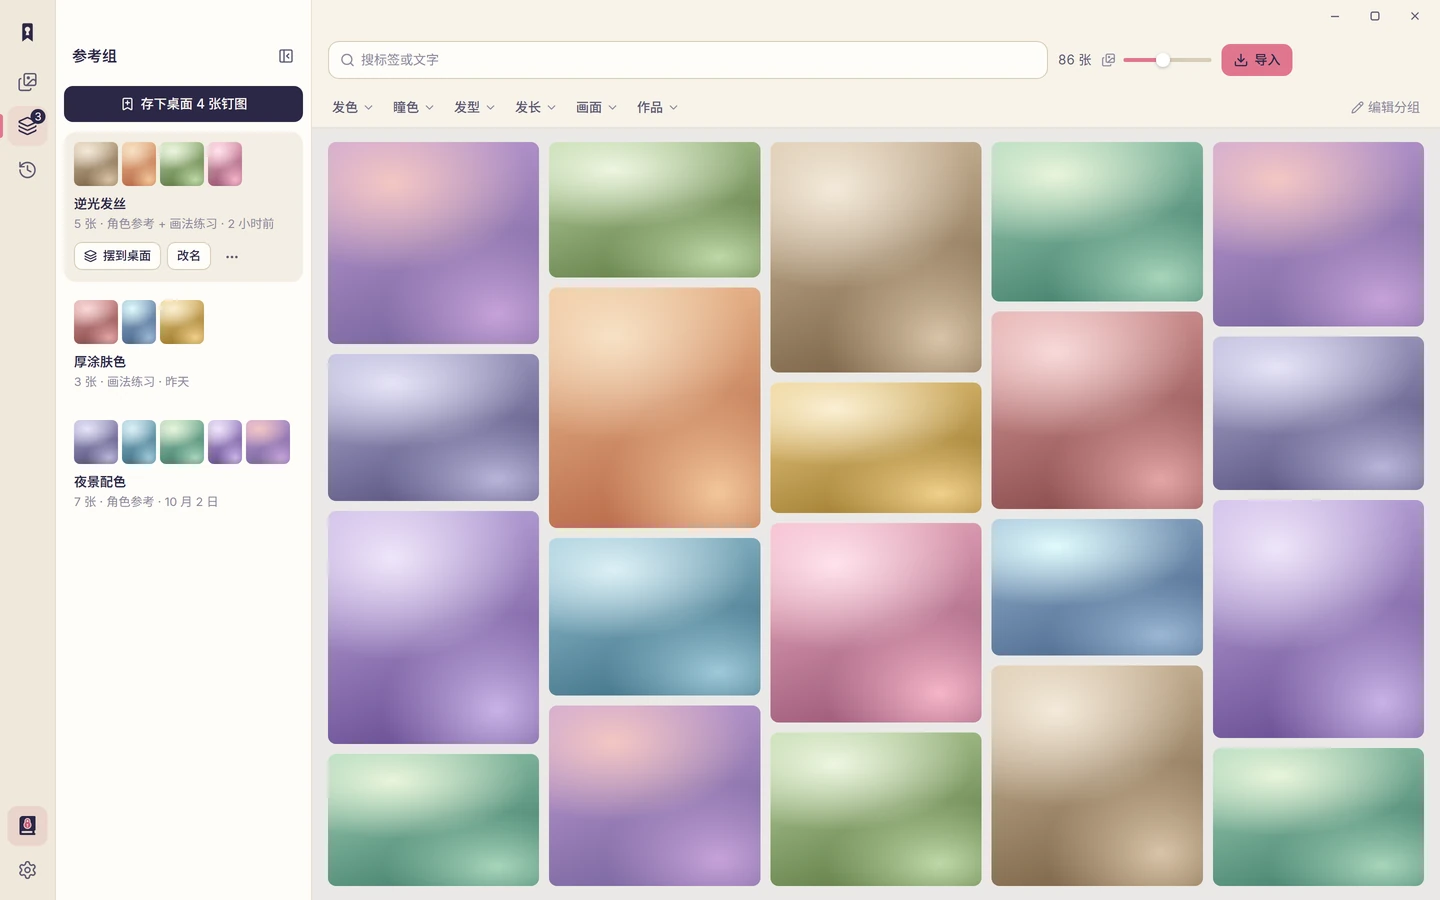
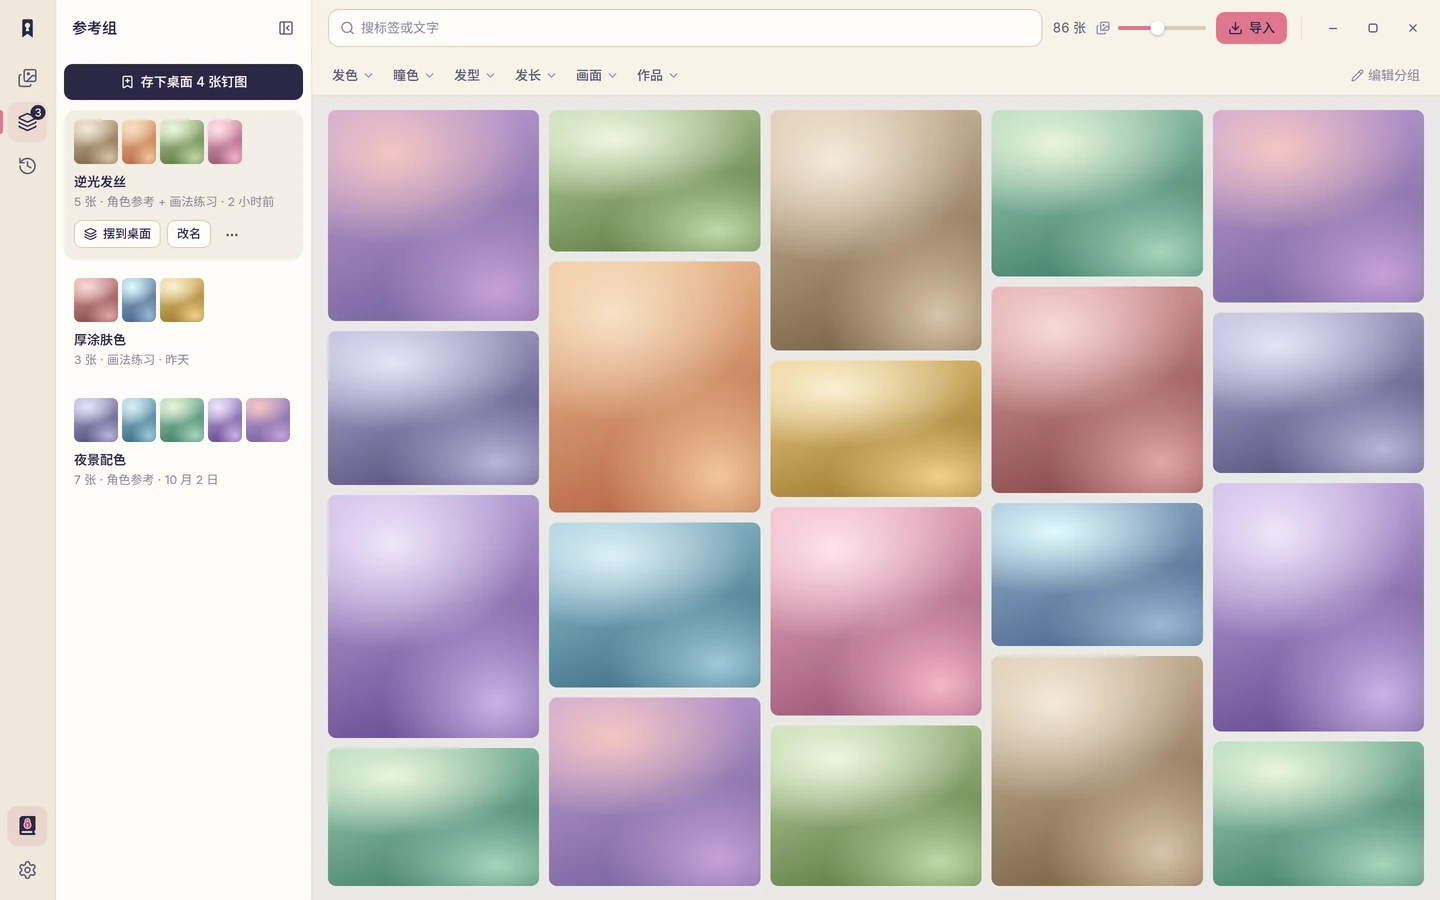
docs(design): unify the header as the window safe area and adopt Fluid Functionalism
- Fluid Functionalism is MIT: port its dependency-free use-fluid-hover and
  spring tiers (keeping the copyright notice) instead of principles only.
- Merge the window safe area into one 56 px header across the columns;
  the window controls sit in the right-most column (inspector, viewer)
  and the inspector's collapse uses a panel icon instead of a second x.
- Lay the sidebar out in three bands: fixed scopes, scrolling library
  trees, fixed background tasks and recycle bin.
- Refresh all preview screens.

Refs #98

diff --git a/design/ui-system/README.md b/design/ui-system/README.md
@@ -11,14 +11,14 @@
 | 库 | 角色 | 依据 |
 | --- | --- | --- |
 | [Base UI](https://mui.com/base-ui/) `@base-ui/react` 1.6.0 · MIT | **采用：交互基础层** | 37 个无样式组件，来自 Radix / Floating UI / MUI 团队，覆盖菜单、右键菜单、下拉选择、可搜索选择、浮层、对话框、提醒对话框、标签页、开关、滑块、轻提示、提示、滚动区、分段切换。键盘与读屏行为由库负责；不要求 Tailwind，直接套用本项目的设计令牌。 |
-| [motion](https://motion.dev/) 14.1.0 · MIT | **采用：动效** | 弹簧与布局过渡（悬停高亮跟随、指示块滑动）。必须遵守“减少动画”。 |
+| [motion](https://motion.dev/) 14.1.0 · MIT | **采用：动效** | 驱动上面的弹簧档位与布局过渡（悬停高亮、指示块滑动）。必须遵守“减少动画”。 |
 | [lucide-react](https://lucide.dev/) 1.52.0 · ISC | **沿用** | 原型已用的通用图标；图标轨 20 px / 线宽 1.75，界面内 13–16 px。 |
-| [Fluid Functionalism](https://www.fluidfunctionalism.com/) | **只采用原则，不复制代码** | 采纳：动效只为传递信息；悬停高亮跟随离指针最近的项；中途反向时弹簧从当前位置折返。不复制代码：依赖 shadcn + Tailwind + framer-motion，许可证未声明。 |
+| [Fluid Functionalism](https://github.com/mickadesign/fluid-functionalism) · MIT | **采用：交互与动效规范** | 仓库为 MIT（Copyright (c) 2026 Micka Touillaud），底层同样支持 Base UI。移植其无依赖的 `use-fluid-hover`（高亮滑到离指针最近的行，空隙点击落到被高亮的行）与 `springs` 动效档位（fast 0.08 s / moderate 0.16 s / slow 0.24 s，退出用更快一档的补间）；保留原版权声明。组件样式写在 Tailwind 类名里，不直接搬组件，改用本项目令牌重写。原则同样采纳：动效只为传递信息；越大的东西动得越慢。 |
 | beUI | **只参考动效写法** | Motion + Tailwind 的复制式组件（弹簧、模糊交叉淡入、布局过渡）。官方仓库与许可证未能确认。 |
 | [RareUI](https://github.com/Codewithswappy/RareUI) · MIT | **主界面不用** | 液态、玻璃、3D、WebGL 背景等装饰性组件。与“图片底色保持中性、缩略图不加装饰”冲突：画师要靠眼睛判断参考图颜色。 |
 | [Shaders](https://shaders.com) | **主界面不用** | WebGPU 着色器特效。理由同上；画师作画时还会占用显卡。以后可评估只用于封印书演出或空状态，需单独决定。 |
 
-新增依赖只限 `@base-ui/react`、`motion`；`lucide-react` 已存在于原型。任何新库都要先在这里登记许可证与用途。
+新增依赖只限 `@base-ui/react`、`motion`；`lucide-react` 已存在于原型。移植的 Fluid Functionalism 源码放在独立的 vendor 目录，文件头保留出处与许可证。任何新库都要先在这里登记许可证与用途。
 
 ### 组件对照
 
@@ -46,14 +46,25 @@
 
 ## 窗口框架
 
-主窗口隐藏 Windows 原生标题栏，由应用绘制顶栏安全区。
+主窗口隐藏 Windows 原生标题栏。各列的标题行合成一条 56 px 的一体化顶栏，它就是窗口的安全区。
 
-- **安全区**：高 32 px，横跨侧栏与主区（图标轨除外），背景透明、与下方连续。空白处可拖动窗口，双击切换最大化。
-- **控件**：最小化、最大化 / 还原、关闭，右对齐，间距 2 px，距右缘 6 px。按钮 38 × 26 px、圆角 7 px；图形 10 px、线宽 1.2 px、像素对齐。
+- **一体化顶栏**：图标轨顶端是书签标；侧栏标题行放图库切换与收起侧栏；主区标题行放查找框、张数、图片大小、导入；最右一列的标题行末尾放窗口控件。各标题行的空白处都可拖动窗口，双击切换最大化。
+- **窗口控件位置**：控件永远在最右一列。打开详情面板时，它们移到详情面板标题行；此时详情面板的收起按钮用“收起面板”图标，不再用 ×，避免与关闭窗口混淆。查看器标题行同理。
+- **控件规格**：最小化、最大化 / 还原、关闭；前面一条 1 px 分隔线；按钮 38 × 26 px、圆角 7 px、垂直居中；图形 10 px、线宽 1.2 px、像素对齐。
 - **状态**：悬停 `--hover` 底、`--ink` 色；按下 `--press`；关闭悬停 `#C94A4A` 底、`#FFFDF8` 图形；键盘焦点 2 px `--accent` 描边。最大化后中间按钮换成还原图形。
 - **关闭语义不变**：关闭主窗口只关主窗口，Kinshoko 继续在托盘，截图、钉图与快捷键照常（见 ADR 0004）。
-- **实现要点（Tauri 2）**：主窗口 `decorations: false`、保留 `shadow` 与可调整大小；顶栏加 `data-tauri-drag-region`；按钮调用 `getCurrentWindow().minimize()` / `toggleMaximize()` / `close()`，能力文件需对应 `core:window:allow-minimize`、`allow-toggle-maximize`、`allow-close`、`allow-start-dragging`。钉图、框选等无边框窗口不受影响。
+- **实现要点（Tauri 2）**：主窗口 `decorations: false`、保留 `shadow` 与可调整大小；各标题行加 `data-tauri-drag-region`，其中的按钮与输入框不拖动；控件调用 `getCurrentWindow().minimize()` / `toggleMaximize()` / `close()`，能力文件需对应 `core:window:allow-minimize`、`allow-toggle-maximize`、`allow-close`、`allow-start-dragging`。钉图、框选等无边框窗口不受影响。
 - **已知取舍**：自绘按钮没有 Windows 11 悬停最大化按钮时弹出的贴靠布局；`Win + Z` 与拖到屏幕边缘贴靠仍可用。实施时在真机核对拖动、双击、调整大小、多显示器与 125%／150% 缩放。
+
+## 侧栏布局
+
+侧栏纵向分三段，长目录只在中间滚动：
+
+1. **顶部固定**：全部图片、未归类。
+2. **中间滚动**：每个图库一组（可折叠的组标题带状态点、张数、新建文件夹）；未连接的图库就地显示原因与“重新连接”；末尾是“含子文件夹”小开关（原型的位置）。
+3. **底部固定**：后台任务（自动打标进度）与回收站。
+
+行高 30 px，悬停高亮由 `use-fluid-hover` 驱动，在同一段内滑动；当前项用 `--accent-soft` 底与 `--accent-strong` 字。
 
 ## 视觉与动效
 
